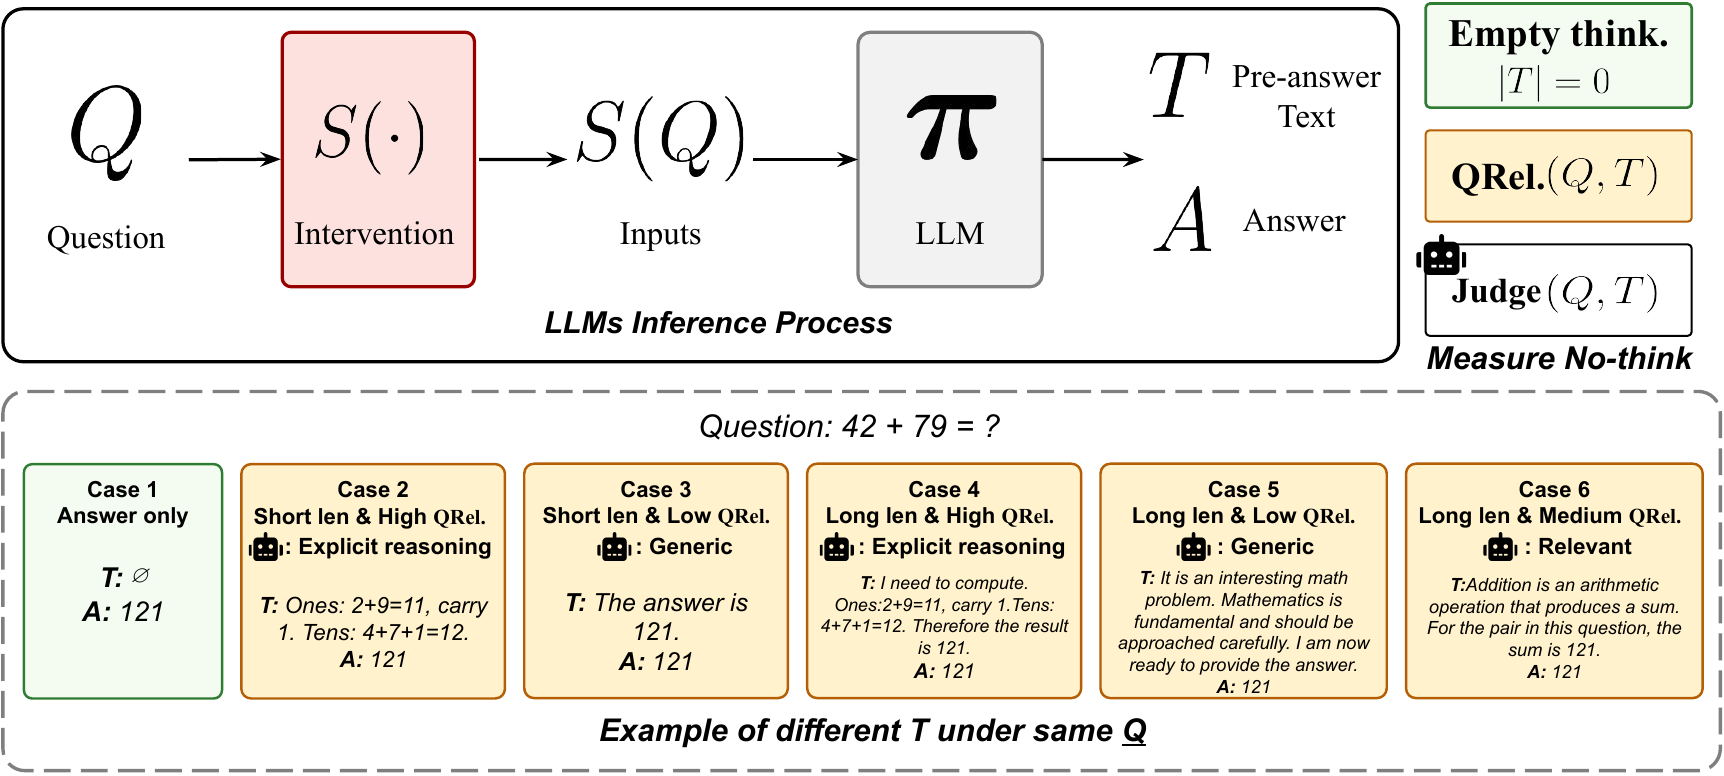
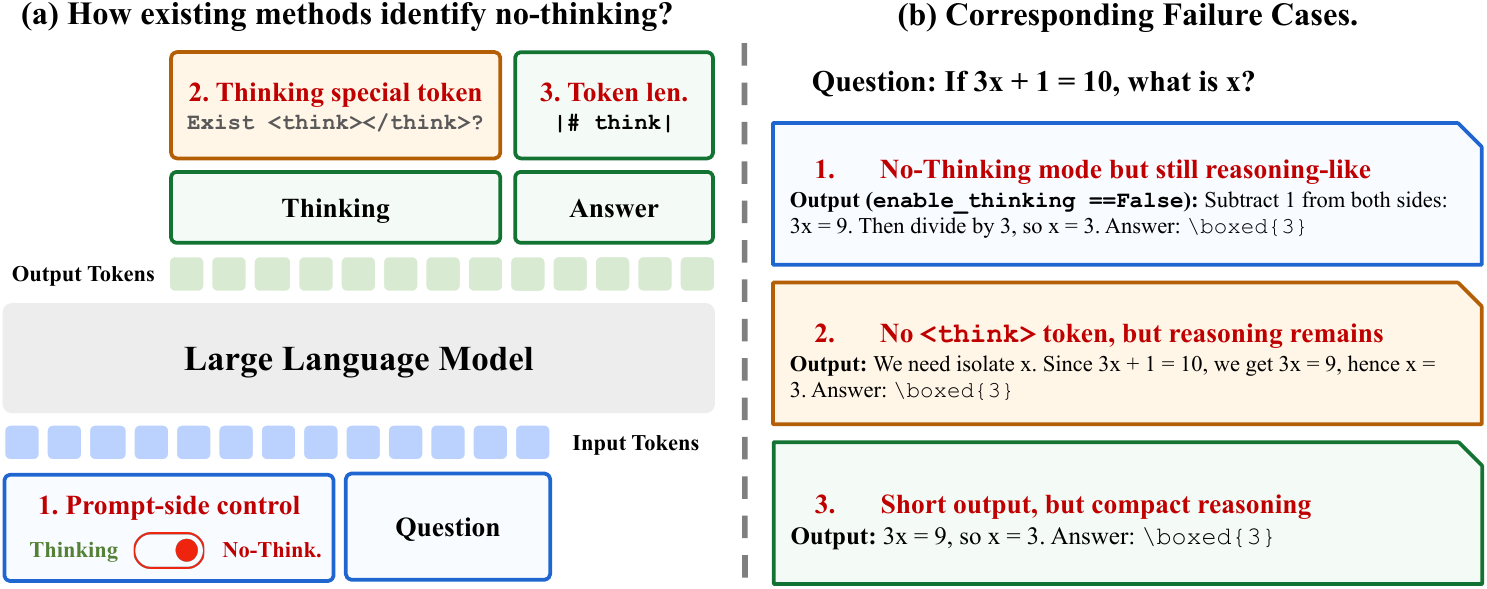
Align project page figures with paper numbering

diff --git a/index.html b/index.html
@@ -33,9 +33,11 @@
 
       <section id="abstract" class="py-5 bg-body-tertiary"><div class="container" style="max-width: 820px;"><h2 class="section-title">Abstract</h2><div class="section-rule"></div><p class="lead-abstract mb-3">Large Language Models (LLMs) increasingly ship with explicit &ldquo;thinking modes,&rdquo; yet their counterpart, &ldquo;no-think,&rdquo; has received far less attention. In this work, we study LLMs&rsquo; &ldquo;no-think&rdquo; behavior along two axes.</p><p class="lead-abstract mb-3"><strong>a. How to measure &ldquo;no-thinking&rdquo;?</strong> Prior work typically defines &ldquo;no-thinking&rdquo; through proxies such as a disabled thinking mode or the absence of long traces. These proxies are unreliable: disabled thinking modes still emit extended reasoning, or long traces often contain uninformative filler rather than genuine inference. We instead normalize any LLM response into pre-answer trace and final answer, and evaluate it at three levels: (i) an <strong>Empty-Thinking Ratio (ETR)</strong> for strict answer-only compliance; (ii) an instruction-aware <strong>Question&ndash;Pre-answer Relevance (QRel.)</strong> score to measure similarity between the question and pre-answer trace; and (iii) an additional LLM-as-judge <strong>Explicit Inference Rate (EIR)</strong> for visible explicit inference. Together, these levels separate answer-only output, relevant but non-inferential text, and explicit inference. Human studies demonstrate the effectiveness of these metrics.</p><p class="lead-abstract mb-0"><strong>b. How does no-thinking vary across tasks and models?</strong> We evaluate six prompting intervention settings on six widely used LLMs, both open-source and commercial, across three question types: Boolean, multiple-choice, and open-ended. We find that explicit no-think controls cannot reliably eliminate visible explicit inference; models instead exhibit <strong>&ldquo;Thinking Inertia&rdquo;</strong>: visible explicit inference persists even under strict no-thinking controls and becomes progressively more prevalent as the answer space opens. Accuracy remains relatively stable on Boolean and multiple-choice tasks, whereas open-ended tasks expose a trade-off between answer-only compliance and task accuracy. Finally, rewriting the same questions across answer spaces shows that supplying candidate answers makes answer-only responses substantially easier to produce. Taken together, these findings establish no-thinking as a non-trivial capability of LLMs: stopping explicit reasoning cannot be assumed from model settings or instructions alone, and deserves systematic evaluation alongside reasoning ability itself.</p></div></section>
 
-      <section id="motivation" class="py-5"><div class="container" style="max-width: 940px;"><div class="figure-plain reveal"><img src="assets/figure1.png" class="img-fluid w-100" alt="Surface proxies for no-thinking and their corresponding failure cases"></div><p class="fig-caption subtitle small mb-0 reveal"><strong>Figure 1.</strong> Surface proxies fail to identify response-level no-thinking. Prompt-side control, special reasoning tokens, and generation length can all leave visible question-conditioned text before the final answer. These failure cases motivate separating strict answer-only compliance, pre-answer relevance, and visible explicit inference.</p><div class="takeaway mt-4"><strong>The problem in one sentence.</strong> A model can be told not to think, omit a <code>&lt;think&gt;</code> block, or produce a short response&mdash;and still expose a compact, task-specific inferential step.</div></div></section>
+      <section id="motivation" class="py-5"><div class="container" style="max-width: 940px;"><div class="figure-plain reveal"><img src="assets/figure1.png" class="img-fluid w-100" alt="Representative answer-only instruction failure and difficulty of adhering to no-thinking across benchmarks"></div><p class="fig-caption subtitle small mb-0 reveal"><strong>Figure 1.</strong> No-thinking controls do not guarantee response-level no-thinking. <strong>Left:</strong> even when asked to give only the final option, models can expose question-relevant pre-answer text. <strong>Right:</strong> under native no-thinking, adherence varies sharply by answer space, with Boolean tasks closer to answer-only than multiple-choice and open-ended tasks.</p><div class="takeaway mt-4"><strong>The motivating observation.</strong> A model can fail the answer-only instruction in a way that is both visible and task-dependent; a single switch or token-length summary cannot describe that behavior completely.</div></div></section>
 
-      <section id="response" class="py-5 bg-body-tertiary"><div class="container" style="max-width: 940px;"><div class="section-narrow"><h2 class="section-title">A response is more than a thinking switch</h2><div class="section-rule"></div><p class="res-text">We treat no-thinking as an observable response property. An intervention wraps the question, the model emits a response, and the response is decomposed into the visible pre-answer text <strong>T</strong> and the final answer <strong>A</strong>. The same final answer can be preceded by empty text, generic filler, relevant assertions, or an explicit inferential step.</p></div><div class="figure-plain reveal"><img src="assets/figure2.png" class="img-fluid w-100" alt="Response-level measurement framework showing question, intervention, model, pre-answer text, final answer, and measurement labels"></div><p class="fig-caption subtitle small mb-0 reveal"><strong>Figure 2.</strong> Response-centric measurement framework. The top shows the inference process and the decomposition into <strong>T</strong> and <strong>A</strong>; the bottom shows six response cases sharing the same question and final answer but differing in length, relevance, and inferential content.</p></div></section>
+      <section id="surface-proxies" class="py-5 bg-body-tertiary"><div class="container" style="max-width: 940px;"><div class="section-narrow"><h2 class="section-title">Why surface proxies fail</h2><div class="section-rule"></div><p class="res-text">Prompt-side controls, special reasoning tokens, and short generations are useful interfaces, but they do not tell us what the response actually exposes. The same algebra question can produce visible inference after a no-think instruction, without a <code>&lt;think&gt;</code> block, or in only a few words.</p></div><div class="figure-plain reveal"><img src="assets/figure2.png" class="img-fluid w-100" alt="Surface proxies for no-thinking and their corresponding failure cases"></div><p class="fig-caption subtitle small mb-0 reveal"><strong>Figure 2.</strong> Surface proxies fail to identify response-level no-thinking. The three common proxies are prompt-side control, special reasoning tokens, and generation length; each can leave a visible inferential step before the final answer.</p></div></section>
+
+      <section id="response" class="py-5"><div class="container" style="max-width: 940px;"><div class="section-narrow"><h2 class="section-title">A response is more than a thinking switch</h2><div class="section-rule"></div><p class="res-text">We therefore treat no-thinking as an observable response property. An intervention wraps the question, the model emits a response, and the response is decomposed into the visible pre-answer text <strong>T</strong> and the final answer <strong>A</strong>. The same final answer can be preceded by empty text, generic filler, relevant assertions, or an explicit inferential step.</p></div><div class="figure-plain reveal"><img src="assets/figure3.png" class="img-fluid w-100" alt="Response-level measurement framework showing question, intervention, model, pre-answer text, final answer, and measurement labels"></div><p class="fig-caption subtitle small mb-0 reveal"><strong>Figure 3.</strong> Response-centric metrics for measuring no-thinking. The top shows the inference process and the decomposition into <strong>T</strong> and <strong>A</strong>; the bottom shows six response cases sharing the same question and final answer but differing in length, relevance, and inferential content.</p></div></section>
 
       <section id="measurement" class="py-5"><div class="container" style="max-width: 820px;"><h2 class="section-title">From answer-only format to explicit inference</h2><div class="section-rule"></div><p class="res-text">The evaluation hierarchy makes each claim narrower and more testable. ETR checks the strict boundary, QRel. supplies an instruction-aware relevance signal, and EIR directly classifies visible inference. QRel. guides interpretation but is not itself evidence of reasoning.</p><div class="metric-tabs" id="metricTabs" role="tablist" aria-label="Response-level metrics"><button class="metric-tab active" type="button" role="tab" aria-selected="true" data-metric="etr"><span>01</span> ETR</button><button class="metric-tab" type="button" role="tab" aria-selected="false" data-metric="qrel"><span>02</span> QRel.</button><button class="metric-tab" type="button" role="tab" aria-selected="false" data-metric="eir"><span>03</span> EIR</button></div><div class="metric-description" id="metricDescription" aria-live="polite"><strong>ETR &mdash; Empty-Thinking Ratio.</strong> Strict answer-only compliance: the share of outputs with an empty visible pre-answer field <code>T</code>.</div><div class="metric-table-wrap"><table class="metric-table"><thead><tr><th>Level</th><th>Observable</th><th>Operational question</th></tr></thead><tbody><tr><th>1</th><td>ETR</td><td>Is the visible pre-answer field empty?</td></tr><tr><th>2</th><td>QRel.</td><td>Does the pre-answer text help answer the question?</td></tr><tr><th>3</th><td>EIR</td><td>Does the pre-answer text contain explicit inference?</td></tr></tbody></table></div><p class="small subtitle mt-3 mb-0">The Level 3 rubric separates generic/off-topic, paraphrase-only, relevant non-inferential, explicit reasoning, and unclear text; empty <strong>T</strong> is no visible inference by definition.</p></div></section>
 
